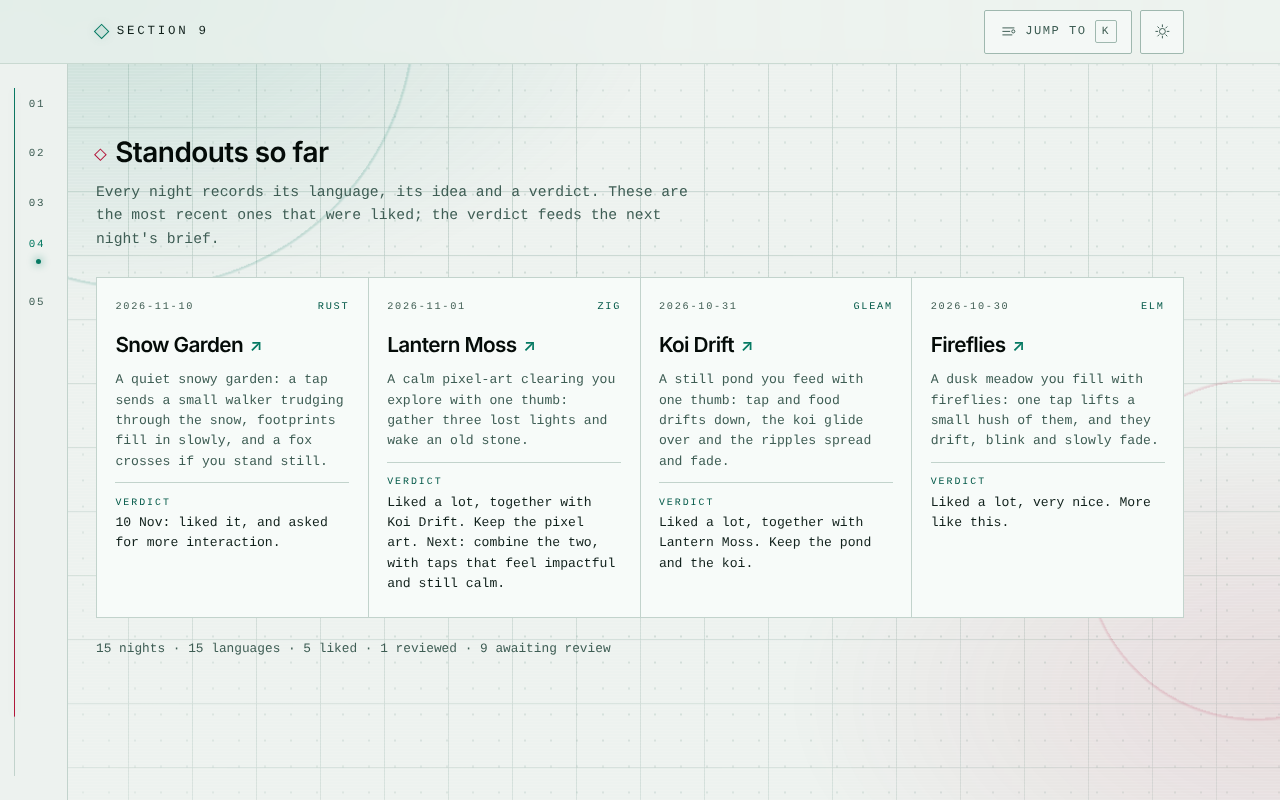
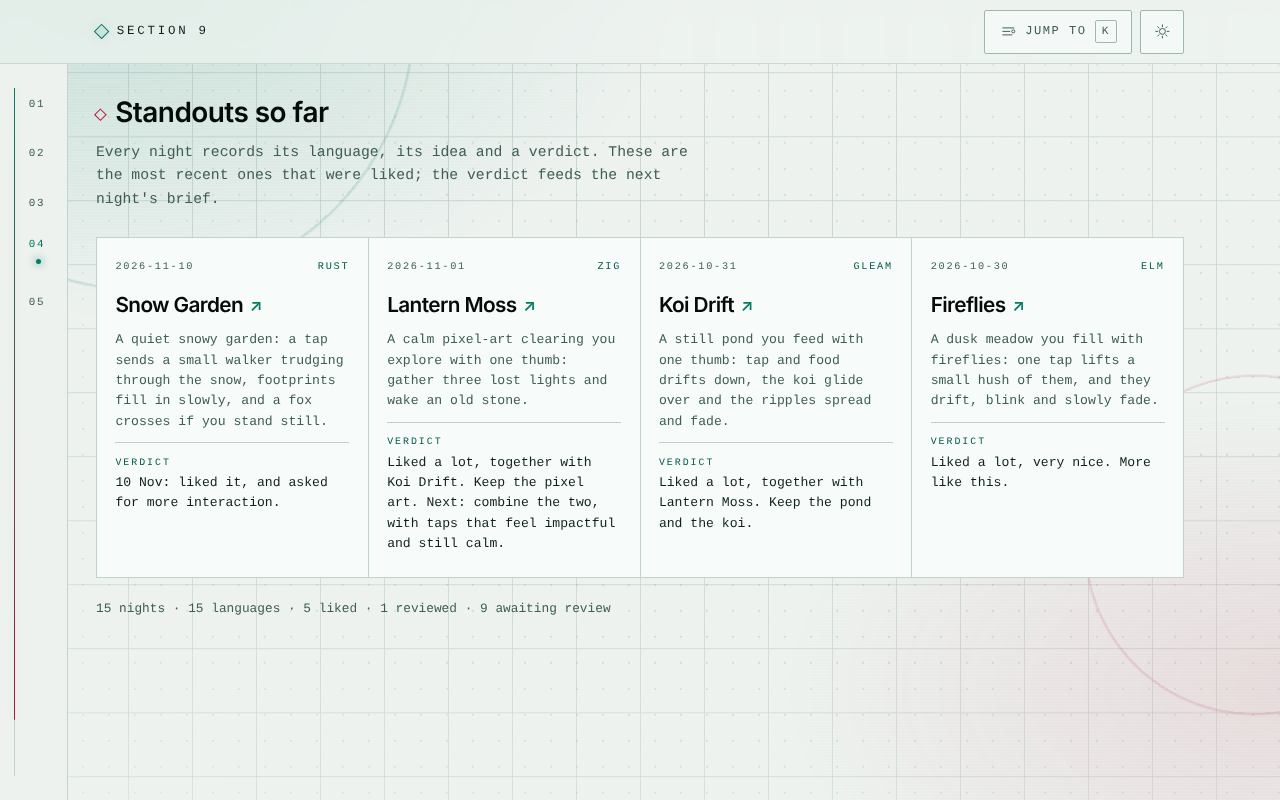
Nightly act: every night links to its app, with a screenshot
Each tile in act 4 now leads with a 640x400 WebP screenshot served from
this site (public/nights/<folder>.webp), and an "Open the app" link to
its GitHub Pages build in a new tab. build-experiments records a
thumbnail only when the file is committed, so a new night without one
gets a hatched text tile. The live preview now sits over the screenshot,
so playing it never changes the tile's size.

Smoke tests check every tile links to its Pages URL in a new tab with
rel=noopener, and every screenshot has alt text, dimensions, lazy
loading and a same-origin source.

Claude-Session: https://claude.ai/code/session_01BZAm4Fex2NJkhnF9z4DXBD

diff --git a/src/style.css b/src/style.css
@@ -1170,6 +1170,8 @@ h1 .decode[data-decoding="true"] {
 
 .tile {
   flex: 0 0 auto;
+  display: flex;
+  flex-direction: column;
   width: 21.5rem;
   max-width: 74vw;
   position: relative;
@@ -1188,6 +1190,7 @@ h1 .decode[data-decoding="true"] {
   box-shadow: 0 0 44px -22px var(--cyan);
 }
 .tile-link {
+  flex: 1 1 auto;
   display: flex;
   flex-direction: column;
   gap: 0.55rem;
@@ -1232,17 +1235,68 @@ h1 .decode[data-decoding="true"] {
   max-width: 34ch;
 }
 .tile-open {
+  white-space: nowrap;
   color: var(--cyan);
   font-size: 0.7rem;
   letter-spacing: 0.16em;
   text-transform: uppercase;
 }
+.tile-link:focus-visible {
+  outline-offset: -3px;
+}
+/* A pinned strip has one screen of height to share with its heading, so the
+   screenshot gives up a little height there; the phone strip scrolls freely. */
+.act-nights {
+  --shot-ratio: 16 / 10;
+}
+@media (min-width: 901px) {
+  .act-nights {
+    --shot-ratio: 16 / 9;
+  }
+}
+@media (min-width: 901px) and (max-height: 860px) {
+  .act-nights {
+    --shot-ratio: 2 / 1;
+  }
+}
+/* The screenshot leads the tile, edge to edge. Its width and height
+   attributes plus the aspect ratio hold the box before the image arrives. */
+.tile-shot {
+  display: block;
+  width: calc(100% + 2.4rem);
+  max-width: none;
+  height: auto;
+  aspect-ratio: var(--shot-ratio);
+  margin: -1.15rem -1.2rem 0.3rem;
+  object-fit: cover;
+  border-bottom: 1px solid var(--line);
+  background: var(--bg-sunk);
+}
+/* No screenshot yet: the same box, quietly hatched, with the language. */
+.tile-shot-none {
+  display: grid;
+  place-items: center;
+  background: repeating-linear-gradient(
+      135deg,
+      transparent 0 12px,
+      color-mix(in srgb, var(--line) 45%, transparent) 12px 13px
+    ),
+    var(--bg-sunk);
+  color: var(--faint);
+  font-size: 0.64rem;
+  letter-spacing: 0.2em;
+  text-transform: uppercase;
+}
+/* The live preview sits over the screenshot, so playing one never changes
+   the tile's size. Until then only its button takes clicks. */
 .tile-preview {
   display: none;
-  border-top: 1px solid var(--line);
-  aspect-ratio: 16 / 9;
-  background: var(--bg-sunk);
-  position: relative;
+  position: absolute;
+  top: 0;
+  left: 0;
+  right: 0;
+  aspect-ratio: var(--shot-ratio);
+  pointer-events: none;
 }
 .tile-preview iframe {
   position: absolute;
@@ -1250,39 +1304,39 @@ h1 .decode[data-decoding="true"] {
   width: 100%;
   height: 100%;
   border: 0;
+  background: var(--bg-sunk);
 }
 .tile.is-centre .tile-preview,
 .tile.is-playing .tile-preview {
   display: block;
 }
+.tile.is-playing .tile-preview {
+  pointer-events: auto;
+}
 .tile-play {
   position: absolute;
-  inset: 0;
-  width: 100%;
-  border: 0;
-  background: repeating-linear-gradient(
-      135deg,
-      transparent 0 12px,
-      color-mix(in srgb, var(--line) 45%, transparent) 12px 13px
-    ),
-    var(--bg-sunk);
-  color: var(--dim);
+  left: 0.6rem;
+  bottom: 0.6rem;
+  min-height: 2.75rem;
+  padding: 0 0.9rem;
+  border: 1px solid var(--cyan);
+  background: color-mix(in srgb, var(--bg) 82%, transparent);
+  color: var(--ink-strong);
   font: inherit;
-  font-size: 0.7rem;
-  letter-spacing: 0.2em;
+  font-size: 0.64rem;
+  letter-spacing: 0.18em;
   text-transform: uppercase;
   cursor: pointer;
+  pointer-events: auto;
   transition: color 0.2s var(--ease), background-color 0.2s var(--ease);
 }
 .tile-play:hover {
   color: var(--cyan);
-  background-color: color-mix(in srgb, var(--cyan) 5%, var(--bg-sunk));
+  background-color: color-mix(in srgb, var(--bg) 92%, var(--cyan));
 }
 .tile-play::before {
   content: "▶";
-  display: block;
-  margin: 0 auto 0.45rem;
-  font-size: 1rem;
+  margin-right: 0.5rem;
   color: var(--cyan);
 }
 .strip-hint {
@@ -1519,6 +1573,7 @@ h1 .decode[data-decoding="true"] {
   margin-top: auto;
   padding-top: 0.7rem;
   display: flex;
+  flex-wrap: wrap;
   align-items: center;
   justify-content: space-between;
   gap: 0.75rem;
@@ -1834,6 +1889,9 @@ h1 .decode[data-decoding="true"] {
   .strip-track {
     padding: 0 var(--gutter);
     gap: 0.9rem;
+    /* Phone tiles show their whole idea, so lengths differ: each tile hugs
+       its own text rather than stretching to the longest one. */
+    align-items: flex-start;
   }
   .tile {
     scroll-snap-align: center;

diff --git a/vite.config.ts b/vite.config.ts
@@ -13,6 +13,8 @@ interface Night {
   verdict: string;
   standing: Standing;
   url: string;
+  /** Root-relative path of a committed screenshot, when there is one. */
+  thumbnail?: string;
 }
 
 interface Crew {
@@ -107,16 +109,30 @@ const crewCards = (crew: Crew[]) =>
 const verdictText = (night: Night) =>
   night.standing === "pending" ? "" : `<span class="verdict-text">${escape(brief(night.verdict))}</span>`;
 
+/** Thumbnails are 640×400 WebP; the attributes reserve their box before they load. */
+const THUMB_WIDTH = 640;
+const THUMB_HEIGHT = 400;
+
+/**
+ * A night's screenshot, or — for a night nobody has captured yet — a plain
+ * panel the same size, so every tile keeps the same shape.
+ */
+const tileShot = (night: Night) =>
+  night.thumbnail
+    ? `<img class="tile-shot" src="${escape(night.thumbnail)}" width="${THUMB_WIDTH}" height="${THUMB_HEIGHT}" loading="lazy" decoding="async" alt="${escape(night.idea)} — screenshot" />`
+    : `<span class="tile-shot tile-shot-none" aria-hidden="true">${escape(night.language)}</span>`;
+
 const tiles = (nights: Night[]) =>
   nights
     .map(
       (night, index) => `<li class="tile" data-index="${index}" data-url="${escape(night.url)}">
               <a class="tile-link" href="${escape(night.url)}" target="_blank" rel="noopener noreferrer">
+                ${tileShot(night)}
                 <span class="tile-top"><span class="tile-date">${escape(night.date)}</span><span class="tile-lang">${escape(night.language)}</span></span>
                 <span class="tile-title">${escape(night.title)}</span>
                 <span class="tile-idea">${escape(night.idea)}</span>
                 ${verdictText(night)}
-                <span class="tile-foot"><span class="tile-open">Open <span aria-hidden="true">↗</span><span class="sr-only"> ${escape(night.title)}</span></span><span class="verdict-badge" data-standing="${night.standing}"><span class="sr-only">Verdict: </span>${STANDING_LABEL[night.standing]}</span></span>
+                <span class="tile-foot"><span class="tile-open">Open the app <span aria-hidden="true">↗</span><span class="sr-only"> ${escape(night.title)} (new tab)</span></span><span class="verdict-badge" data-standing="${night.standing}"><span class="sr-only">Verdict: </span>${STANDING_LABEL[night.standing]}</span></span>
               </a>
               <div class="tile-preview" data-preview>
                 <button class="tile-play" type="button" aria-label="Play a live preview of ${escape(night.title)}">Play preview</button>

diff --git a/README.md b/README.md
@@ -16,8 +16,9 @@ Professional tone, experimental touches, no framework.
   bleed: animated flight arcs on a canvas, a cross-fading capture of the real
   app, the link out, and a panel of the architecture choices it tests.
 - **04 Nightly experiments** — a horizontal filmstrip that scrubs sideways as
-  you scroll down. Each tile is a night with its language, idea and verdict;
-  the one under the centre line offers a lazy live preview. Under it: the
+  you scroll down. Each tile is a night with a screenshot, its language, idea
+  and verdict, and a link to the app on GitHub Pages; the one under the centre
+  line offers a lazy live preview over its screenshot. Under it: the
   newest nights that were liked, with the verdict that says so.
 - **05 Sign-off** — quiet close: LinkedIn, one line, the theme switch.
 
@@ -34,8 +35,10 @@ shown in acts 1–2. Both come from data, not from typing in this repo.
 the `nights/` directory listing (which nights exist) and each night's
 `nights/<folder>/night.json` (date, language, idea, verdict). A night without a
 `night.json` falls back to its row in the older `LOG.md` table. Each night also
-gets a `standing` — liked, reviewed or pending — read off its verdict. The
-result is `src/experiments.generated.json`. That file is committed, so an
+gets a `standing` — liked, reviewed or pending — read off its verdict — and a
+`thumbnail` when a screenshot is committed at `public/nights/<folder>.webp`
+(640×400 WebP, served from this site; a night without one gets a text tile).
+The result is `src/experiments.generated.json`. That file is committed, so an
 offline build still ships a list; if the reads fail the script keeps the
 committed copy and warns rather than failing the build. Set `GITHUB_TOKEN` to
 lift the anonymous API rate limit.
